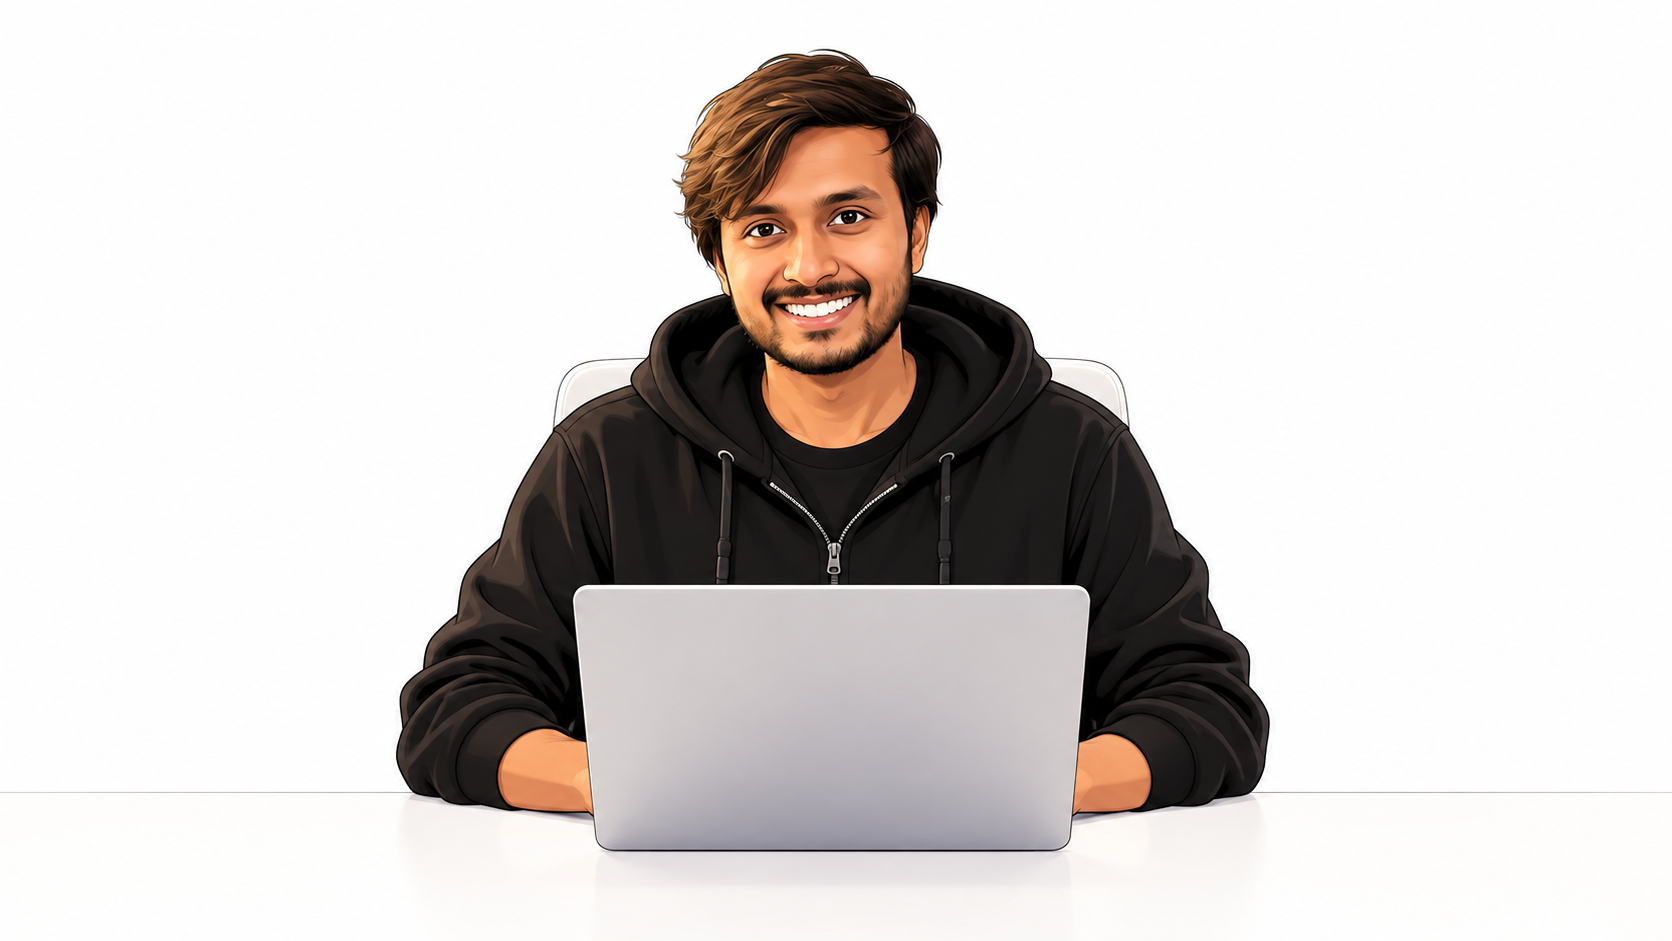
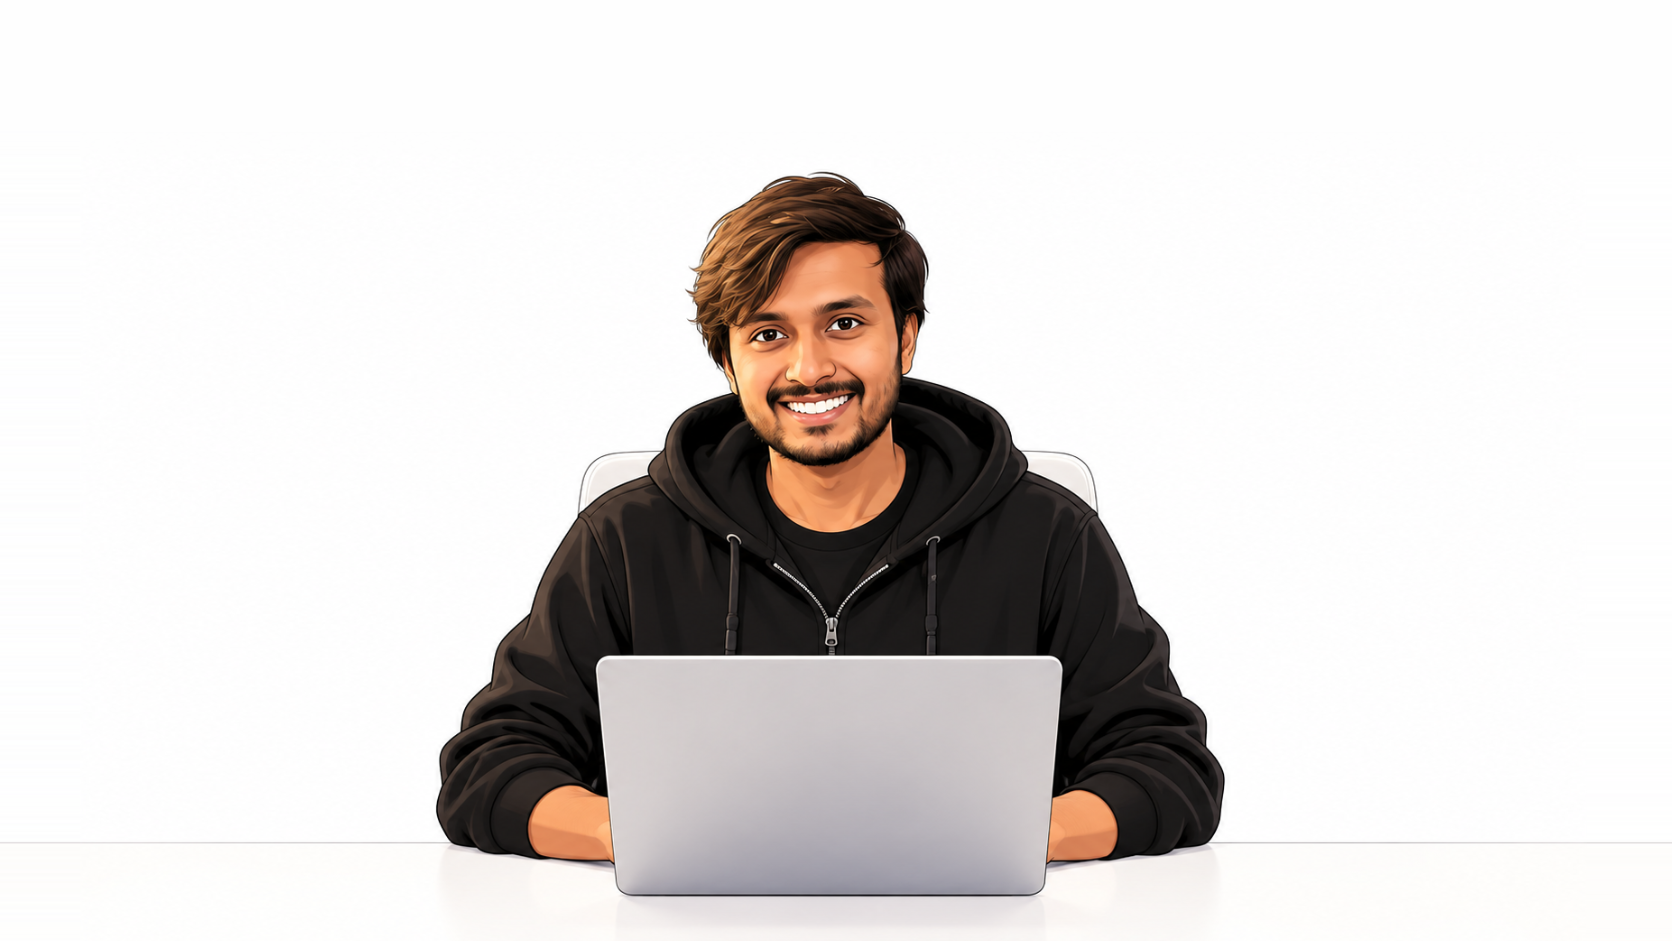
fix(hero): align portrait layers and keep head clear of nav
Rescale/shift the white portrait (0.90x, laptop-matched) so it sits
exactly over the tech backdrop, and anchor both layers at 25% from the
top so wide viewports crop the table instead of the head.

Changed region(s): [[0.2177, 0.0308, 0.7775, 0.9554]]

diff --git a/src/components/scratch-reveal.tsx b/src/components/scratch-reveal.tsx
@@ -147,11 +147,12 @@ export function ScratchReveal({
     let raf = 0;
 
     const drawCover = () => {
-      // Same math as object-fit: cover + object-position: center on the <img> below.
+      // Same math as object-fit: cover + object-position: 50% 25% on the <img> below
+      // (biased up so a wide viewport crops the table, not the head under the nav).
       const scale = Math.max(W / img.naturalWidth, H / img.naturalHeight);
       const dw = img.naturalWidth * scale;
       const dh = img.naturalHeight * scale;
-      ctx.drawImage(img, (W - dw) / 2, (H - dh) / 2, dw, dh);
+      ctx.drawImage(img, (W - dw) / 2, (H - dh) * 0.25, dw, dh);
     };
 
     const resize = () => {
@@ -306,7 +307,7 @@ export function ScratchReveal({
       <img
         src={bottom}
         alt=""
-        className={`absolute inset-0 h-full w-full object-cover object-center ${ready ? "" : "invisible"}`}
+        className={`absolute inset-0 h-full w-full object-cover object-[50%_25%] ${ready ? "" : "invisible"}`}
       />
       <canvas ref={canvasRef} aria-hidden="true" className="absolute inset-0 h-full w-full" />
       {children}
